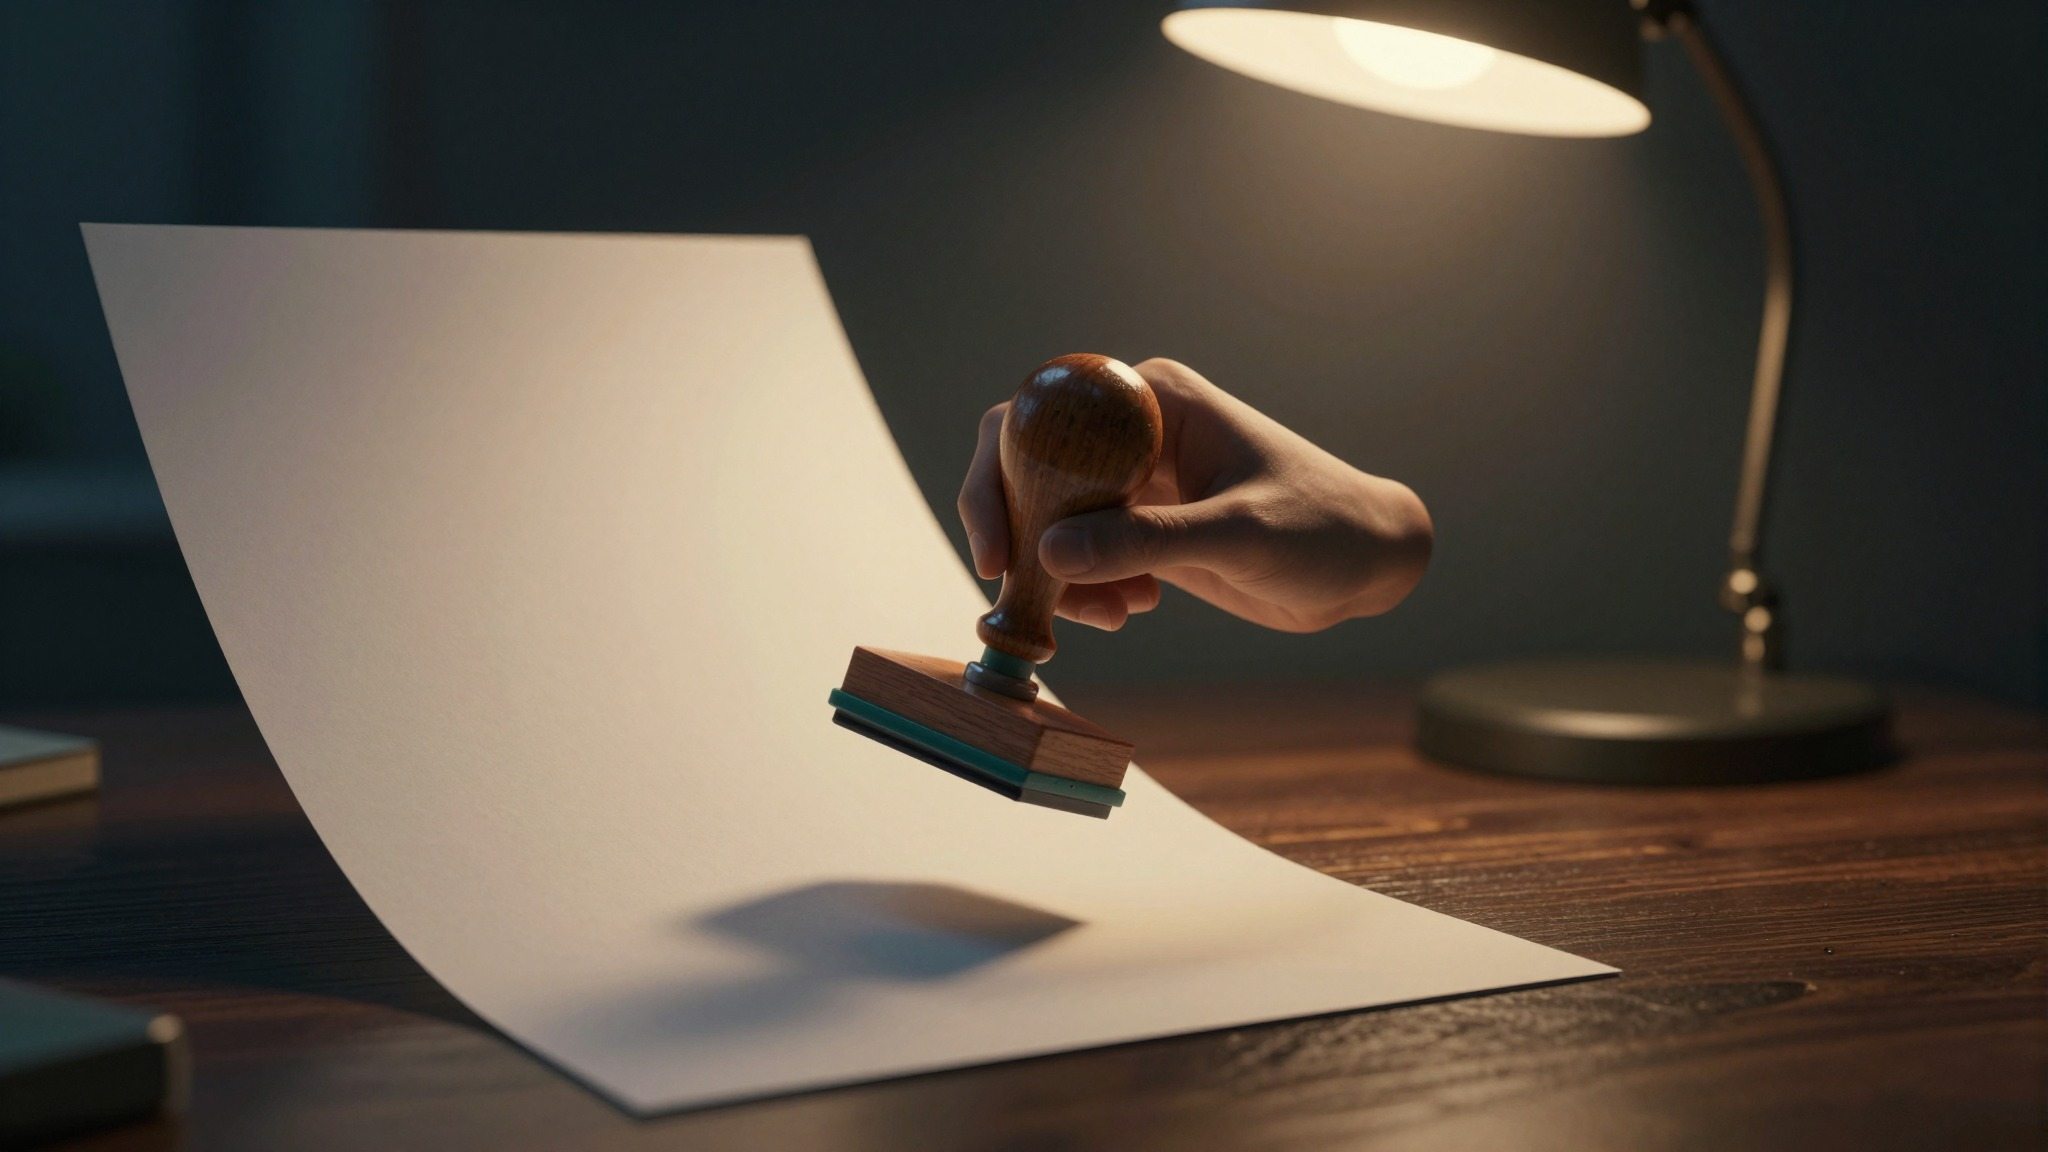
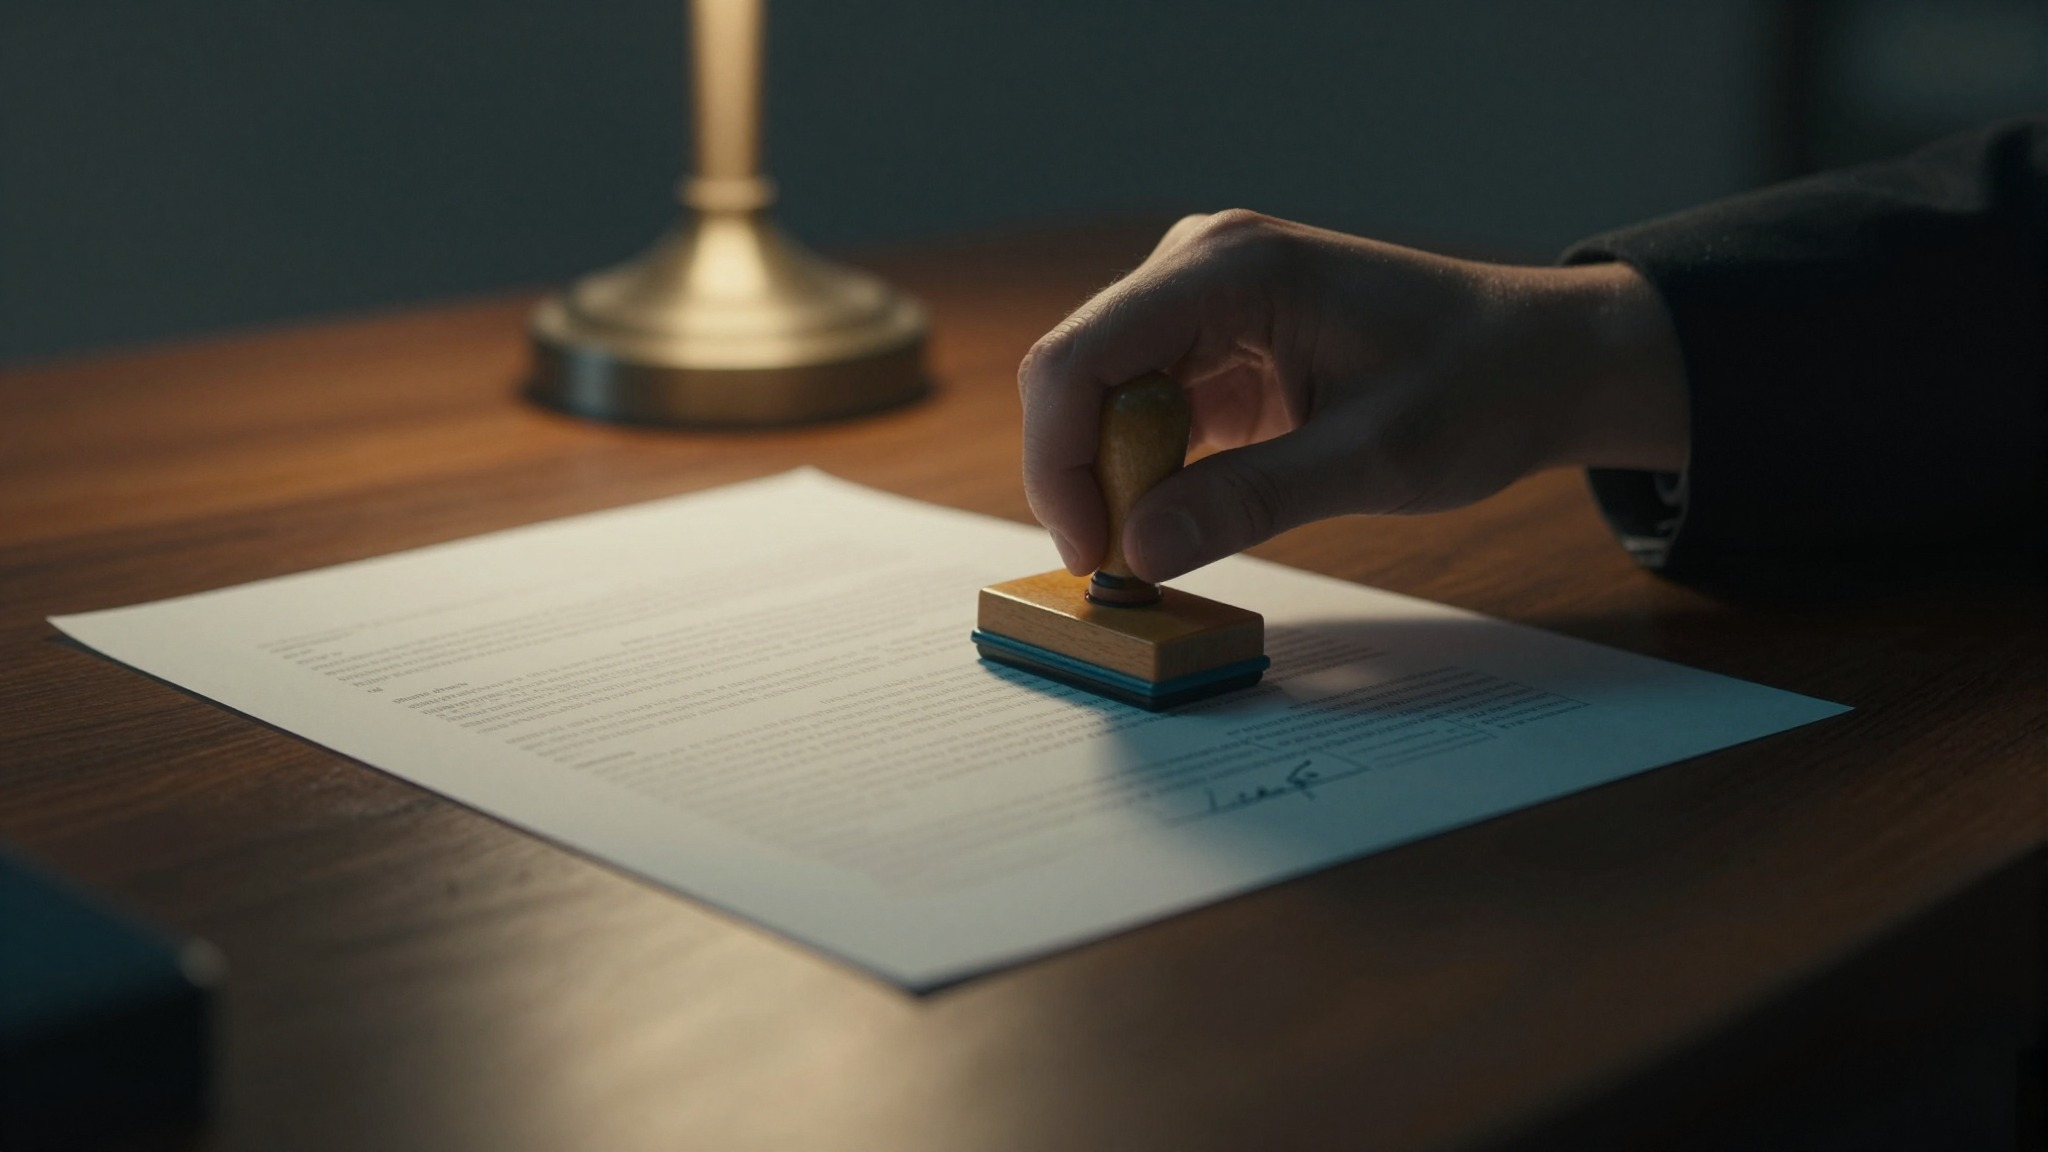
Ep. 002: b09 redone (form with signature, arm from frame edge)
Claude-Session: https://claude.ai/code/session_01Ms4JQ5vmn4oSY8XmAQMPMS

diff --git a/illustrations/ep002/README.md b/illustrations/ep002/README.md
@@ -12,7 +12,7 @@ Generate pe 22 nov 2026 cu Z-Image-Turbo (`illustrations.yml`, run #1, joburi î
 | b06_empty_guard_booth | „We know, Bitget doesn't” | bună |
 | b07_badge_lanyard | A borrowed name | bună (card gol) |
 | b08_corridor_door | Pe holuri spre wallet job server | bună |
-| b09_stamp_form | Risk control / SIGNED | de refăcut: mâna se termină în aer; decupajul a scos lampa (respins), ștergerea antebrațului pe CPU arată fals |
+| b09_stamp_form | Risk control / SIGNED | bună: refăcută (run-2, seed 2112, ~14 s): formular tipărit cu text neclar și semnătură, braț în mânecă închisă intrând din dreapta, lampa în cadru. Varianta a (seed 2111, fără semnătură vizibilă) pe `renders` |
 | b10_empty_trading_floor | 18:31 | bună |
 | b11_phone_nightstand | Locked out (clientul) | bună |
 | b12_alarm_control_room | Alarma de la 19:05 | bună |
